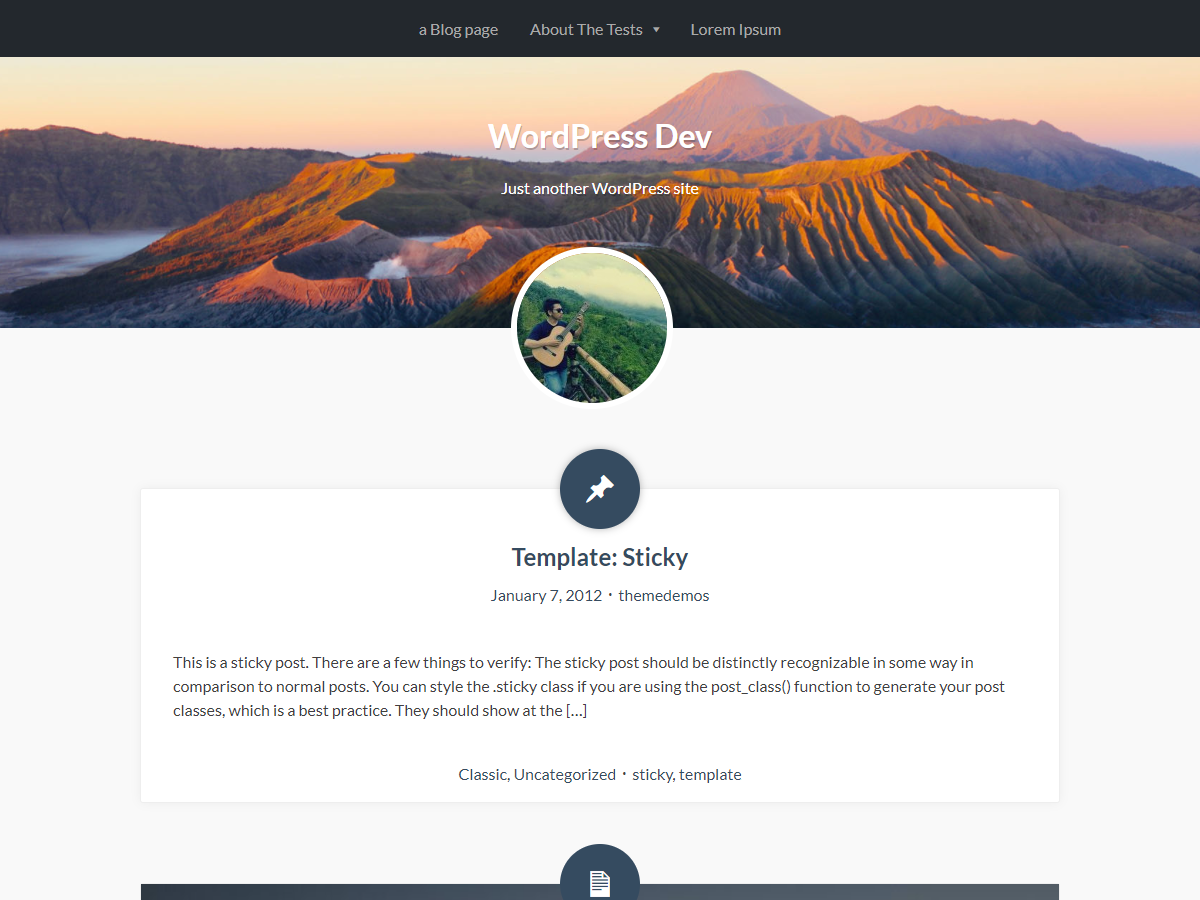
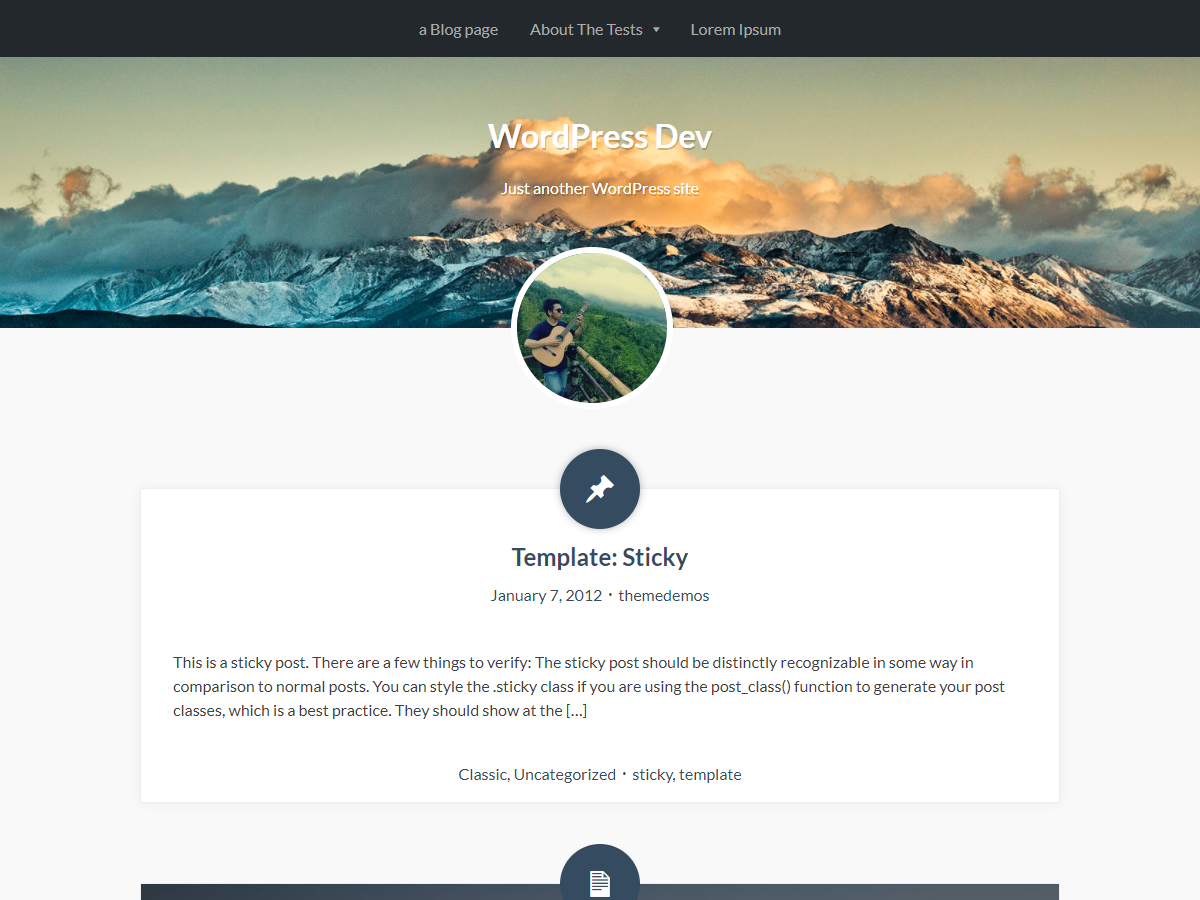
update to version 0.7.3

Changed region(s): [[0.0, 0.0622, 1.0, 0.3733]]

diff --git a/style.css b/style.css
@@ -4,7 +4,7 @@ Theme URI: https://www.dhimaskirana.com/mahal-wordpress-themes/
 Author: Dhimas Kirana
 Author URI: https://www.dhimaskirana.com/
 Description: Mahal is free WordPress Themes. One column and fully responsive. Randomized header background.
-Version: 0.7.2
+Version: 0.7.3
 Tested up to: 5.4
 Requires PHP: 5.6
 License: GNU General Public License v2 or later

diff --git a/inc/custom-header.php b/inc/custom-header.php
@@ -36,55 +36,30 @@ function mahal_custom_header_setup() {
 		)
 	);
 	register_default_headers(array(
-		'tanah-lot' => array(
-			'url'           => '%s/images/Tanah-Lot.jpg',
-			'thumbnail_url' => '%s/images/Tanah-Lot.jpg',
-			'description'   => 'Tanah Lot is a rock formation off the Indonesian island of Bali. It is home to the ancient Hindu pilgrimage temple Pura Tanah Lot, a popular tourist and cultural icon for photography.'
+		'stars-night' => array(
+			'url'           => '%s/images/Stars-Night.jpg',
+			'thumbnail_url' => '%s/images/Stars-Night.jpg',
+			'description'   => 'Stars Night'
 		),
-		'borobudur' => array(
-			'url'           => '%s/images/Borobudur.jpg',
-			'thumbnail_url' => '%s/images/Borobudur.jpg',
-			'description'   => 'Borobudur is the biggest Buddhist monument, an ancient site widely considered to be one of the world\'s seven wonders.'
+		'mountains' => array(
+			'url'           => '%s/images/Mountains.jpg',
+			'thumbnail_url' => '%s/images/Mountains.jpg',
+			'description'   => 'Mountains'
 		),
-		'bromo' => array(
-			'url'           => '%s/images/Bromo.jpg',
-			'thumbnail_url' => '%s/images/Bromo.jpg',
-			'description'   => 'Mount Bromo is an active somma volcano and part of the Tengger mountains, in East Java, Indonesia. The area is one of the most visited tourist destinations in East Java.'
+		'sky-clouds' => array(
+			'url'           => '%s/images/Sky-Clouds.jpg',
+			'thumbnail_url' => '%s/images/Sky-Clouds.jpg',
+			'description'   => 'Sky Clouds'
 		),
-		'padar-island' => array(
-			'url'           => '%s/images/Padar-Island.jpg',
-			'thumbnail_url' => '%s/images/Padar-Island.jpg',
-			'description'   => 'Padar is a small island located between Komodo and Rinca islands within Komodo archipelago, administrated under the West Manggarai Regency, East Nusa Tenggara, Indonesia.'
+		'enchanting-forest' => array(
+			'url'           => '%s/images/Enchanting-Forest.jpg',
+			'thumbnail_url' => '%s/images/Enchanting-Forest.jpg',
+			'description'   => 'Enchanting Forest'
 		),
-		'tugu-jogja' => array(
-			'url'           => '%s/images/Tugu-Jogja.jpg',
-			'thumbnail_url' => '%s/images/Tugu-Jogja.jpg',
-			'description'   => 'Tugu Jogja is an important historical landmark in the city of Yogyakarta, Indonesia. Because of its historical background, Tugu Yogyakarta has become a historical icon of the city.'
-		),
-		'sydneyblur' => array(
-			'url'           => '%s/images/SydneyBlur.jpg',
-			'thumbnail_url' => '%s/images/SydneyBlur.jpg',
-			'description'   => 'Sydney, capital of New South Wales and one of Australia\'s largest cities, is best known for its harbourfront Sydney Opera House.'
-		),
-		'los-angeles' => array(
-			'url'           => '%s/images/Los-Angeles-by-Night.jpg',
-			'thumbnail_url' => '%s/images/Los-Angeles-by-Night.jpg',
-			'description'   => 'Los Angeles is a sprawling Southern California city and the center of the nation’s film and television industry.'
-		),
-		'milky-way' => array(
-			'url'           => '%s/images/Shooting-Star-Rye.jpg',
-			'thumbnail_url' => '%s/images/Shooting-Star-Rye.jpg',
-			'description'   => 'The Milky Way is the galaxy that includes our Solar System, with the name describing the galaxy\'s appearance from Earth: a hazy band of light seen in the night sky formed from stars that cannot be individually distinguished by the naked eye.'
-		),
-		'earth' => array(
-			'url'           => '%s/images/Earth.jpg',
-			'thumbnail_url' => '%s/images/Earth.jpg',
-			'description'   => 'Earth is the third planet from the Sun and the only astronomical object known to harbor and support life.'
-		),
-		'tatra' => array(
-			'url'           => '%s/images/Tatra-Mountains.jpg',
-			'thumbnail_url' => '%s/images/Tatra-Mountains.jpg',
-			'description'   => 'The Tatra Mountains, part of the Carpathian mountain chain in eastern Europe, create a natural border between Slovakia and Poland.'
+		'rural-road' => array(
+			'url'           => '%s/images/Rural-Road.jpg',
+			'thumbnail_url' => '%s/images/Rural-Road.jpg',
+			'description'   => 'Rural Road'
 		),
 	));
 }

diff --git a/inc/documentation.php b/inc/documentation.php
@@ -64,7 +64,7 @@ function mahal_documentation() {
                     <p><?php printf(
                             wp_kses(
                                 /* translators: %1$s: Mahal Themes Reviews Links %2$s: mailto links */
-                                __('If you like this theme, please <a href="%1$s" target="_blank">give a 5 stars review</a> in the WordPress Themes directory. Any ideas to add features to this theme? Feel free to <a href="%2$s" target="_blank">contact me</a>.', 'mahal'),
+                                __('If you like this theme, please <a href="%1$s" target="_blank">give a 5 stars review</a> in the WordPress Themes directory. Any ideas to add features to this theme? Feel free to <a href="%2$s" target="_blank">contact me</a> or visit Mahal Themes on <a href="%3$s" target="_blank">github</a>.', 'mahal'),
                                 array(
                                     'a' => array(
                                         'href' => array(),
@@ -73,7 +73,8 @@ function mahal_documentation() {
                                 )
                             ),
                             esc_url('https://wordpress.org/support/theme/mahal/reviews/'),
-                            'mailto:me@dhimaskirana.com?subject=About%20Mahal%20Theme&body=Hi%20Dhimas...'
+                            'mailto:me@dhimaskirana.com?subject=About%20Mahal%20Theme&body=Hi%20Dhimas...',
+                            esc_url('https://github.com/dhimaskirana/mahal')
                         ); ?></p>
                 </div>
 
